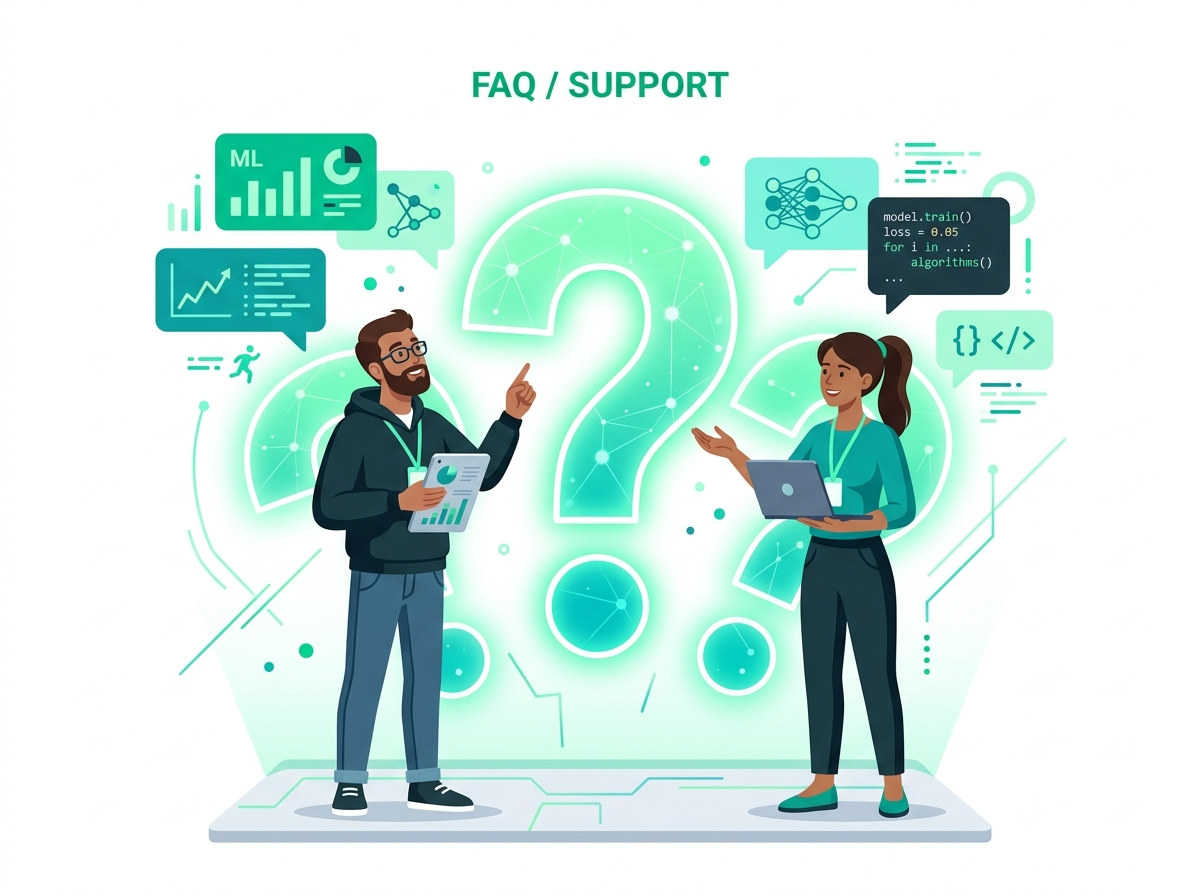
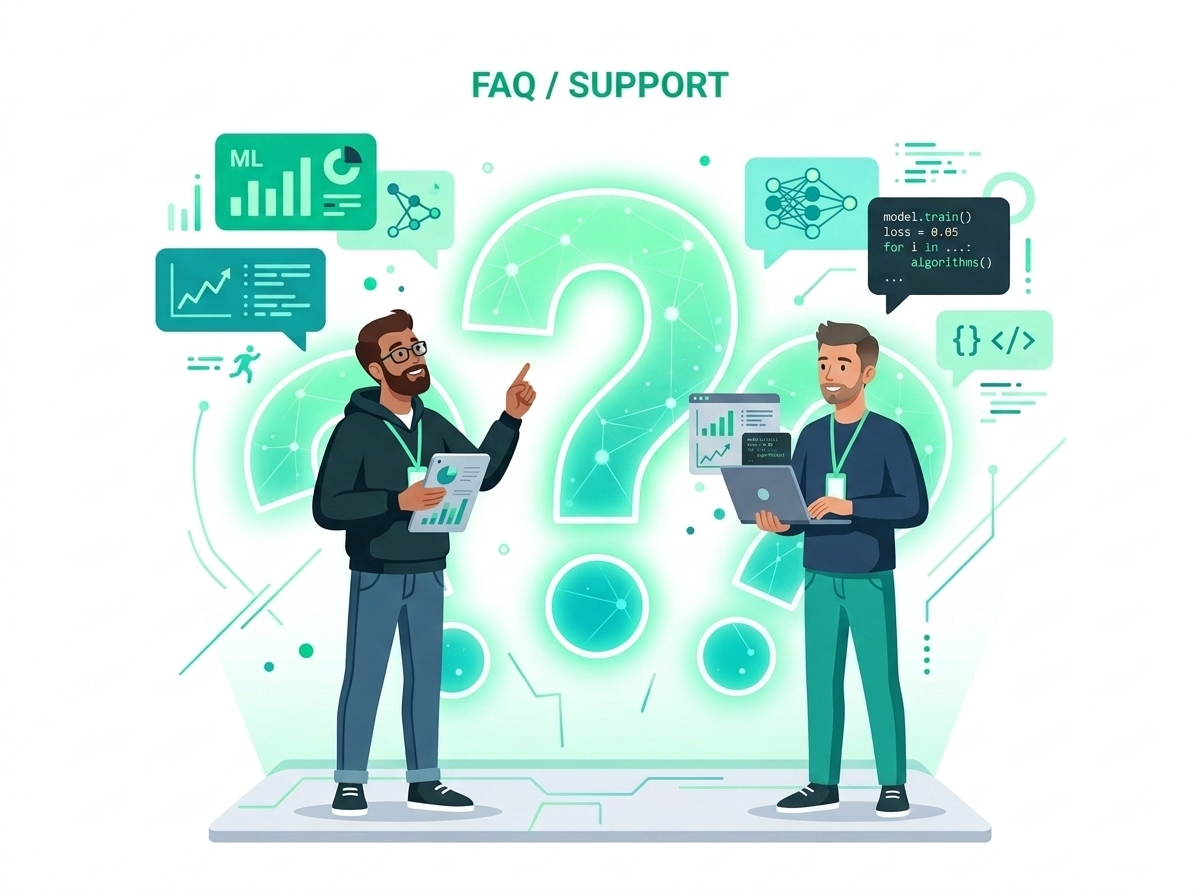
feat: add interactive FAQ section with accordion and illustration to landing page

Changed region(s): [[0.555, 0.3438, 0.7708, 0.9375]]

diff --git a/apps/web/src/pages/LandingPage.tsx b/apps/web/src/pages/LandingPage.tsx
@@ -31,6 +31,8 @@ import {
   Send,
   Heart,
   Star,
+  ChevronDown,
+  HelpCircle,
 } from "lucide-react";
 
 export const LandingPage: React.FC = () => {
@@ -49,6 +51,32 @@ export const LandingPage: React.FC = () => {
   const [contactMessage, setContactMessage] = useState("");
   const [contactSubmitted, setContactSubmitted] = useState(false);
   const [contactLoading, setContactLoading] = useState(false);
+
+  // FAQ Accordion State
+  const [openFaq, setOpenFaq] = useState<number | null>(0);
+
+  const faqItems = [
+    {
+      q: "What is MLite and how is it different from cloud MLOps platforms?",
+      a: "MLite is a 100% self-hosted, open-source MLOps platform. Unlike AWS SageMaker or GCP Vertex AI, MLite has zero vendor lock-in and zero per-model egress fees. You run PostgreSQL, MinIO S3 storage, MLflow tracking, and Docker-based container serving directly on your own hardware with complete data sovereignty.",
+    },
+    {
+      q: "Is MLite completely free and open source?",
+      a: "Yes! MLite is licensed under the Apache 2.0 open-source license. The core features—model registry, Docker container serving endpoints, and automated drift detection—are free forever for individual developers, research labs, and enterprise teams.",
+    },
+    {
+      q: "How does Docker model serving work in MLite?",
+      a: "When you deploy a model version, MLite packages your artifact into an isolated Docker container with an embedded FastAPI web server, live health probes, and automatic port binding. You achieve sub-50ms inference latency without proprietary vendor runtimes.",
+    },
+    {
+      q: "How does MLite monitor data drift and model degradation?",
+      a: "MLite runs statistical drift evaluations (Population Stability Index / PSI, Wasserstein distance, KS-tests) powered by Evidently AI. When feature distributions shift between baseline training and live inference, MLite alerts you and can trigger automatic rollback.",
+    },
+    {
+      q: "Can I integrate MLite into my existing CI/CD or Python pipelines?",
+      a: "Yes. MLite offers a unified Python client (import mlite), an intuitive terminal CLI (mlite deployments create ...), and fully documented REST OpenAPI endpoints to plug straight into GitHub Actions, Airflow, or Kubeflow.",
+    },
+  ];
 
   const handleContactSubmit = (e: React.FormEvent) => {
     e.preventDefault();
@@ -210,6 +238,7 @@ export const LandingPage: React.FC = () => {
             <a href="#features" className="hover:text-[#3BB48C] transition">Features</a>
             <a href="#workflow" className="hover:text-[#3BB48C] transition">Workflow</a>
             <a href="#architecture" className="hover:text-[#3BB48C] transition">Architecture</a>
+            <a href="#faq" className="hover:text-[#3BB48C] transition">FAQ</a>
             <a href="#contact" className="hover:text-[#3BB48C] transition">Contact</a>
             <a
               href="http://localhost:8000/docs"
@@ -594,6 +623,97 @@ export const LandingPage: React.FC = () => {
         </div>
       </section>
 
+      {/* ── FAQ Section (Interactive Accordion + Updated Male Engineer Illustration) ── */}
+      <section id="faq" className="py-24 bg-[#F8FAFC] border-t border-slate-100 relative overflow-hidden bg-mlops-grid">
+        <div className="max-w-7xl mx-auto px-6 relative z-10">
+          {/* Section Heading */}
+          <div className="text-center max-w-3xl mx-auto mb-16 space-y-4">
+            <div className="inline-flex items-center gap-2 px-3.5 py-1.5 rounded-full bg-[#EBF8F4] border border-[#BCE9DA] text-[#1A7456] text-xs font-bold tracking-wide uppercase">
+              <HelpCircle className="w-3.5 h-3.5 text-[#3BB48C]" />
+              Frequently Asked Questions
+            </div>
+            <h2 className="font-display text-3xl sm:text-4xl lg:text-5xl font-black text-slate-900 tracking-tight">
+              Got Questions? <span className="text-transparent bg-clip-text bg-gradient-to-r from-[#3BB48C] to-[#1E6B52]">We Have Answers</span>
+            </h2>
+            <p className="text-slate-600 text-base sm:text-lg">
+              Everything you need to know about self-hosting, Docker serving, and our 100% open-source MLOps architecture.
+            </p>
+          </div>
+
+          <div className="grid grid-cols-1 lg:grid-cols-12 gap-12 items-center">
+            {/* Left: Illustration with MLOps Tech Context */}
+            <div className="lg:col-span-5 flex flex-col items-center">
+              <div className="relative w-full max-w-md rounded-3xl overflow-hidden border border-emerald-100/80 shadow-xl bg-white p-3 group transition-transform duration-500 hover:scale-[1.01]">
+                {/* Glow backdrop */}
+                <div className="absolute -inset-1 bg-gradient-to-tr from-[#3BB48C]/20 to-teal-100/30 rounded-3xl blur-xl pointer-events-none -z-10" />
+                <img
+                  src="/faq-illustration.jpg"
+                  alt="MLite FAQ and Open Source Technical Support"
+                  className="w-full h-auto object-contain rounded-2xl select-none"
+                />
+              </div>
+              <div className="mt-6 text-center max-w-sm">
+                <p className="text-xs text-slate-500">
+                  Still have questions? Check our{" "}
+                  <a
+                    href="http://localhost:8000/docs"
+                    target="_blank"
+                    rel="noreferrer"
+                    className="text-[#3BB48C] font-semibold hover:underline"
+                  >
+                    API Documentation
+                  </a>{" "}
+                  or send us a message in the contact form below.
+                </p>
+              </div>
+            </div>
+
+            {/* Right: Expandable Accordion */}
+            <div className="lg:col-span-7 space-y-4">
+              {faqItems.map((item, idx) => {
+                const isOpen = openFaq === idx;
+                return (
+                  <div
+                    key={idx}
+                    className={`rounded-2xl border transition-all duration-300 overflow-hidden ${
+                      isOpen
+                        ? "bg-white border-[#3BB48C] shadow-lg shadow-[#3BB48C]/5"
+                        : "bg-white/80 border-slate-200/90 hover:bg-white hover:border-slate-300"
+                    }`}
+                  >
+                    <button
+                      onClick={() => setOpenFaq(isOpen ? null : idx)}
+                      className="w-full py-5 px-6 flex items-center justify-between text-left gap-4 cursor-pointer select-none"
+                    >
+                      <span className={`text-base font-bold transition-colors ${isOpen ? "text-slate-900" : "text-slate-700"}`}>
+                        {item.q}
+                      </span>
+                      <div
+                        className={`w-8 h-8 rounded-full flex items-center justify-center shrink-0 transition-colors ${
+                          isOpen ? "bg-[#EBF8F4] text-[#3BB48C]" : "bg-slate-100 text-slate-400"
+                        }`}
+                      >
+                        <ChevronDown
+                          className={`w-4 h-4 transition-transform duration-300 ${
+                            isOpen ? "rotate-180 text-[#3BB48C]" : ""
+                          }`}
+                        />
+                      </div>
+                    </button>
+
+                    {isOpen && (
+                      <div className="px-6 pb-5 pt-1 text-sm text-slate-600 leading-relaxed border-t border-slate-100/80 animate-fadeIn">
+                        {item.a}
+                      </div>
+                    )}
+                  </div>
+                );
+              })}
+            </div>
+          </div>
+        </div>
+      </section>
+
       {/* ── Contact Us & Open-Source Community Section (Split Premium Layout) ── */}
       <section id="contact" className="py-24 bg-white relative overflow-hidden border-t border-slate-100">
         {/* Subtle background ambient gradients */}
@@ -934,6 +1054,7 @@ export const LandingPage: React.FC = () => {
                   <li><a href="#features" className="hover:text-[#3BB48C] transition">Features</a></li>
                   <li><a href="#workflow" className="hover:text-[#3BB48C] transition">Workflow</a></li>
                   <li><a href="#architecture" className="hover:text-[#3BB48C] transition">Architecture</a></li>
+                  <li><a href="#faq" className="hover:text-[#3BB48C] transition">FAQ / Support</a></li>
                   <li><a href="#contact" className="hover:text-[#3BB48C] transition">Contact & Community</a></li>
                   <li>
                     <a href="https://github.com/Youssef-Laaroussi/MLOpsLite" target="_blank" rel="noreferrer" className="hover:text-[#3BB48C] transition flex items-center gap-1">
